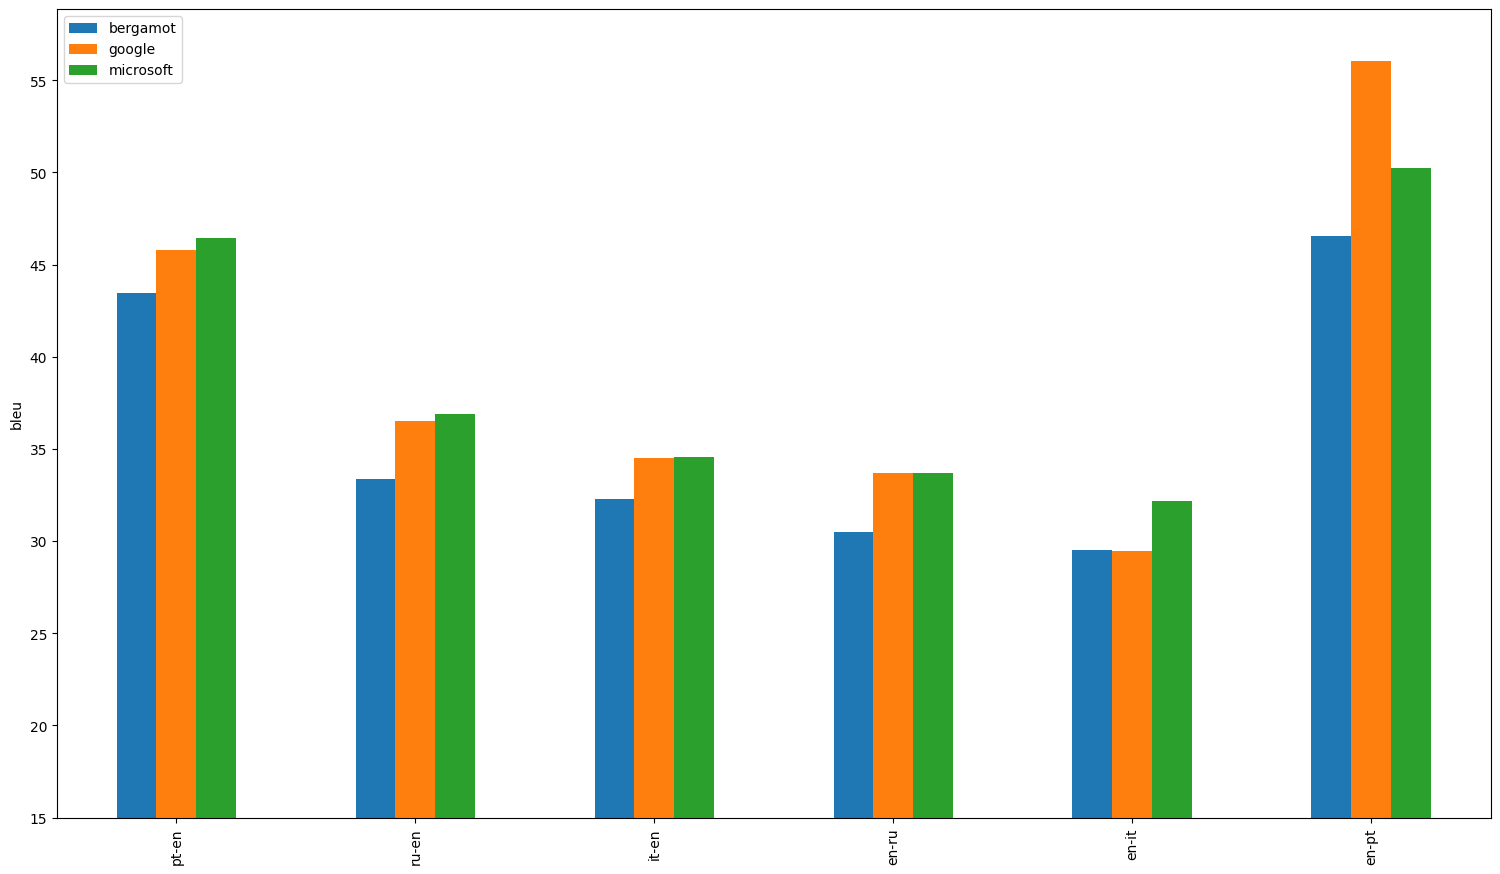
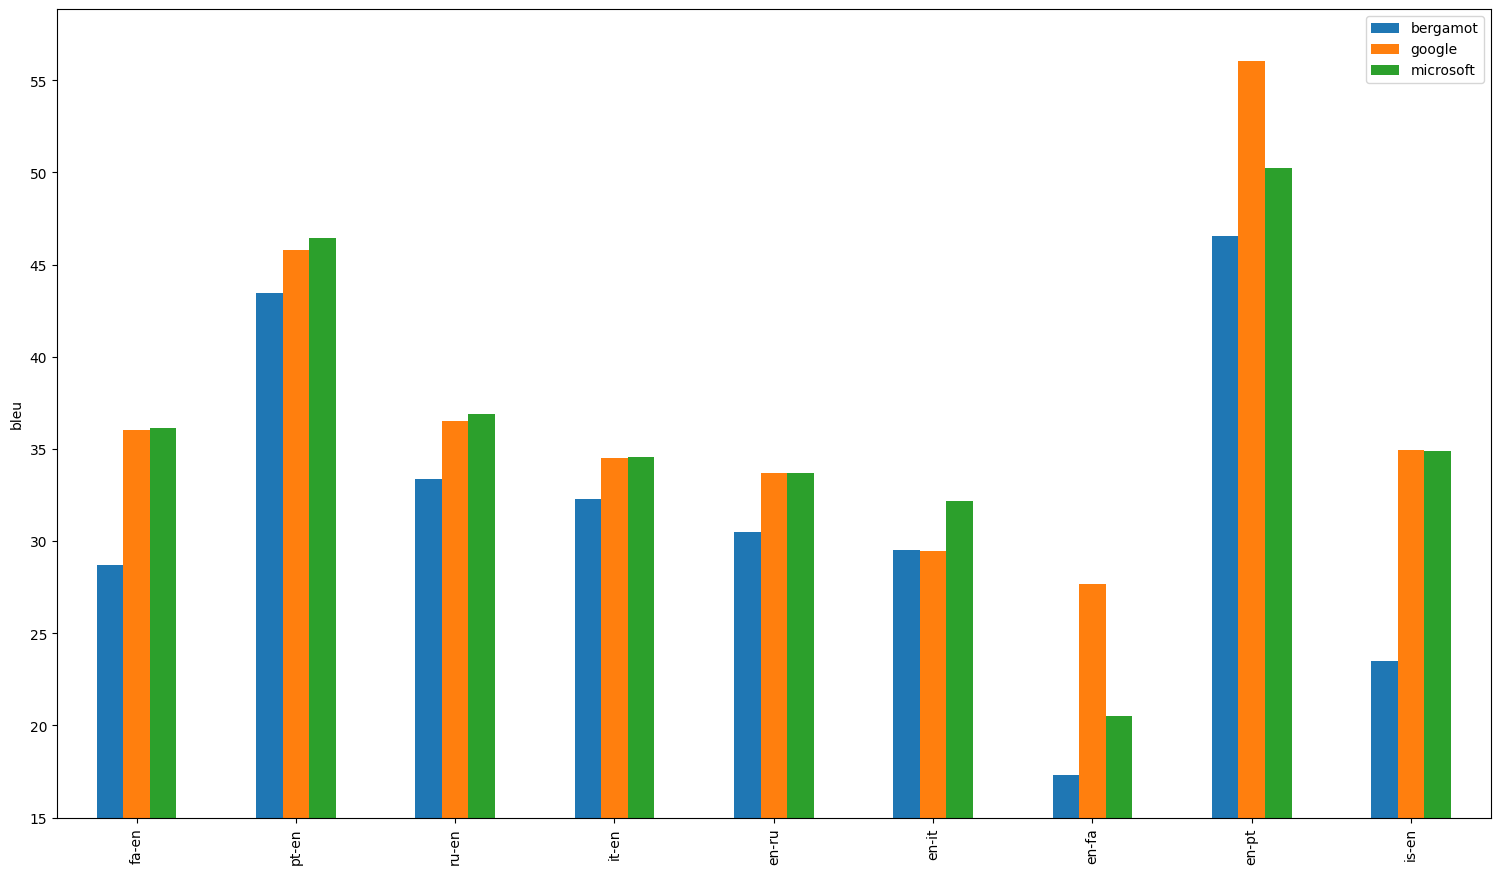
Update evaluation results [skip ci]

diff --git a/evaluation/prod/results.md b/evaluation/prod/results.md
@@ -57,11 +57,11 @@ Both absolute and relative differences in BLEU scores between Bergamot and other
 
 ## avg
 
-| Translator/Dataset | es-en | nb-en | fa-en | bg-en | et-en | en-cs | cs-en | en-fa | de-en | en-es | is-en | en-et | en-bg | en-de |
-| --- | --- | --- | --- | --- | --- | --- | --- | --- | --- | --- | --- | --- | --- | --- |
-| bergamot | 32.38 | 37.60 | 28.70 | 38.50 | 32.37 | 24.65 | 30.34 | 17.30 | 33.51 | 32.41 | 23.50 | 25.50 | 42.10 | 32.27 |
-| google | 33.64 (+1.27, +3.91%) | 42.05 (+4.45, +11.84%) | 36.05 (+7.35, +25.61%) | 41.30 (+2.80, +7.27%) | 35.80 (+3.43, +10.61%) | 26.73 (+2.09, +8.47%) | 32.40 (+2.06, +6.80%) | 27.70 (+10.40, +60.12%) | 35.98 (+2.48, +7.39%) | 34.74 (+2.32, +7.17%) | 34.95 (+11.45, +48.72%) | 28.60 (+3.10, +12.16%) | 44.60 (+2.50, +5.94%) | 33.05 (+0.77, +2.40%) |
-| microsoft | 32.93 (+0.56, +1.72%) | 42.90 (+5.30, +14.10%) | 36.15 (+7.45, +25.96%) | 41.20 (+2.70, +7.01%) | 36.17 (+3.80, +11.74%) | 27.75 (+3.11, +12.60%) | 33.53 (+3.19, +10.53%) | 20.50 (+3.20, +18.50%) | 38.21 (+4.70, +14.03%) | 33.76 (+1.35, +4.17%) | 34.90 (+11.40, +48.51%) | 28.47 (+2.97, +11.63%) | 38.55 (-3.55, -8.43%) | 33.54 (+1.27, +3.93%) |
+| Translator/Dataset | es-en | nb-en | bg-en | et-en | en-cs | cs-en | de-en | en-es | en-et | en-bg | en-de |
+| --- | --- | --- | --- | --- | --- | --- | --- | --- | --- | --- | --- |
+| bergamot | 32.38 | 37.60 | 38.50 | 32.37 | 24.65 | 30.34 | 33.51 | 32.41 | 25.50 | 42.10 | 32.27 |
+| google | 33.64 (+1.27, +3.91%) | 42.05 (+4.45, +11.84%) | 41.30 (+2.80, +7.27%) | 35.80 (+3.43, +10.61%) | 26.73 (+2.09, +8.47%) | 32.40 (+2.06, +6.80%) | 35.98 (+2.48, +7.39%) | 34.74 (+2.32, +7.17%) | 28.60 (+3.10, +12.16%) | 44.60 (+2.50, +5.94%) | 33.05 (+0.77, +2.40%) |
+| microsoft | 32.93 (+0.56, +1.72%) | 42.90 (+5.30, +14.10%) | 41.20 (+2.70, +7.01%) | 36.17 (+3.80, +11.74%) | 27.75 (+3.11, +12.60%) | 33.53 (+3.19, +10.53%) | 38.21 (+4.70, +14.03%) | 33.76 (+1.35, +4.17%) | 28.47 (+2.97, +11.63%) | 38.55 (-3.55, -8.43%) | 33.54 (+1.27, +3.93%) |
 
 ![Results](img/avg.png)
 
@@ -84,16 +84,6 @@ Both absolute and relative differences in BLEU scores between Bergamot and other
 | microsoft | 42.70 (+5.30, +14.17%) | 43.10 (+5.30, +14.02%) |
 
 ![Results](img/nb-en.png)
-
-## fa-en
-
-| Translator/Dataset | flores-dev | flores-test |
-| --- | --- | --- |
-| bergamot | 29.10 | 28.30 |
-| google | 36.70 (+7.60, +26.12%) | 35.40 (+7.10, +25.09%) |
-| microsoft | 36.50 (+7.40, +25.43%) | 35.80 (+7.50, +26.50%) |
-
-![Results](img/fa-en.png)
 
 ## bg-en
 
@@ -135,16 +125,6 @@ Both absolute and relative differences in BLEU scores between Bergamot and other
 
 ![Results](img/cs-en.png)
 
-## en-fa
-
-| Translator/Dataset | flores-dev | flores-test |
-| --- | --- | --- |
-| bergamot | 17.20 | 17.40 |
-| google | 27.20 (+10.00, +58.14%) | 28.20 (+10.80, +62.07%) |
-| microsoft | 19.90 (+2.70, +15.70%) | 21.10 (+3.70, +21.26%) |
-
-![Results](img/en-fa.png)
-
 ## de-en
 
 | Translator/Dataset | wmt17 | wmt10 | wmt18 | wmt09 | wmt14 | wmt11 | wmt16 | wmt13 | wmt19 | wmt20 | wmt08 | flores-dev | flores-test | wmt12 | wmt15 | iwslt17 |
@@ -164,16 +144,6 @@ Both absolute and relative differences in BLEU scores between Bergamot and other
 | microsoft | 35.70 (+0.90, +2.59%) | 28.50 (+2.30, +8.78%) | 40.00 (+1.10, +2.83%) | 29.90 (+0.90, +3.10%) | 39.10 (+1.20, +3.17%) | 28.40 (+2.50, +9.65%) | 37.80 (+1.10, +3.00%) | 30.70 (+0.80, +2.68%) |
 
 ![Results](img/en-es.png)
-
-## is-en
-
-| Translator/Dataset | flores-dev | flores-test |
-| --- | --- | --- |
-| bergamot | 23.60 | 23.40 |
-| google | 35.50 (+11.90, +50.42%) | 34.40 (+11.00, +47.01%) |
-| microsoft | 35.10 (+11.50, +48.73%) | 34.70 (+11.30, +48.29%) |
-
-![Results](img/is-en.png)
 
 ## en-et
 

diff --git a/evaluation/dev/results.md b/evaluation/dev/results.md
@@ -57,13 +57,23 @@ Both absolute and relative differences in BLEU scores between Bergamot and other
 
 ## avg
 
-| Translator/Dataset | pt-en | ru-en | it-en | en-ru | en-it | en-pt |
-| --- | --- | --- | --- | --- | --- | --- |
-| bergamot | 43.43 | 33.37 | 32.30 | 30.47 | 29.53 | 46.55 |
-| google | 45.77 (+2.33, +5.37%) | 36.53 (+3.15, +9.45%) | 34.50 (+2.20, +6.81%) | 33.72 (+3.25, +10.67%) | 29.47 (-0.07, -0.23%) | 56.05 (+9.50, +20.41%) |
-| microsoft | 46.43 (+3.00, +6.91%) | 36.87 (+3.50, +10.49%) | 34.55 (+2.25, +6.97%) | 33.68 (+3.21, +10.53%) | 32.20 (+2.67, +9.03%) | 50.25 (+3.70, +7.95%) |
+| Translator/Dataset | fa-en | pt-en | ru-en | it-en | en-ru | en-it | en-fa | en-pt | is-en |
+| --- | --- | --- | --- | --- | --- | --- | --- | --- | --- |
+| bergamot | 28.70 | 43.43 | 33.37 | 32.30 | 30.47 | 29.53 | 17.30 | 46.55 | 23.50 |
+| google | 36.05 (+7.35, +25.61%) | 45.77 (+2.33, +5.37%) | 36.53 (+3.15, +9.45%) | 34.50 (+2.20, +6.81%) | 33.72 (+3.25, +10.67%) | 29.47 (-0.07, -0.23%) | 27.70 (+10.40, +60.12%) | 56.05 (+9.50, +20.41%) | 34.95 (+11.45, +48.72%) |
+| microsoft | 36.15 (+7.45, +25.96%) | 46.43 (+3.00, +6.91%) | 36.87 (+3.50, +10.49%) | 34.55 (+2.25, +6.97%) | 33.68 (+3.21, +10.53%) | 32.20 (+2.67, +9.03%) | 20.50 (+3.20, +18.50%) | 50.25 (+3.70, +7.95%) | 34.90 (+11.40, +48.51%) |
 
 ![Results](img/avg.png)
+
+## fa-en
+
+| Translator/Dataset | flores-dev | flores-test |
+| --- | --- | --- |
+| bergamot | 29.10 | 28.30 |
+| google | 36.70 (+7.60, +26.12%) | 35.40 (+7.10, +25.09%) |
+| microsoft | 36.50 (+7.40, +25.43%) | 35.80 (+7.50, +26.50%) |
+
+![Results](img/fa-en.png)
 
 ## pt-en
 
@@ -115,6 +125,16 @@ Both absolute and relative differences in BLEU scores between Bergamot and other
 
 ![Results](img/en-it.png)
 
+## en-fa
+
+| Translator/Dataset | flores-dev | flores-test |
+| --- | --- | --- |
+| bergamot | 17.20 | 17.40 |
+| google | 27.20 (+10.00, +58.14%) | 28.20 (+10.80, +62.07%) |
+| microsoft | 19.90 (+2.70, +15.70%) | 21.10 (+3.70, +21.26%) |
+
+![Results](img/en-fa.png)
+
 ## en-pt
 
 | Translator/Dataset | flores-test | flores-dev |
@@ -124,3 +144,13 @@ Both absolute and relative differences in BLEU scores between Bergamot and other
 | microsoft | 50.70 (+4.50, +9.74%) | 49.80 (+2.90, +6.18%) |
 
 ![Results](img/en-pt.png)
+
+## is-en
+
+| Translator/Dataset | flores-dev | flores-test |
+| --- | --- | --- |
+| bergamot | 23.60 | 23.40 |
+| google | 35.50 (+11.90, +50.42%) | 34.40 (+11.00, +47.01%) |
+| microsoft | 35.10 (+11.50, +48.73%) | 34.70 (+11.30, +48.29%) |
+
+![Results](img/is-en.png)
